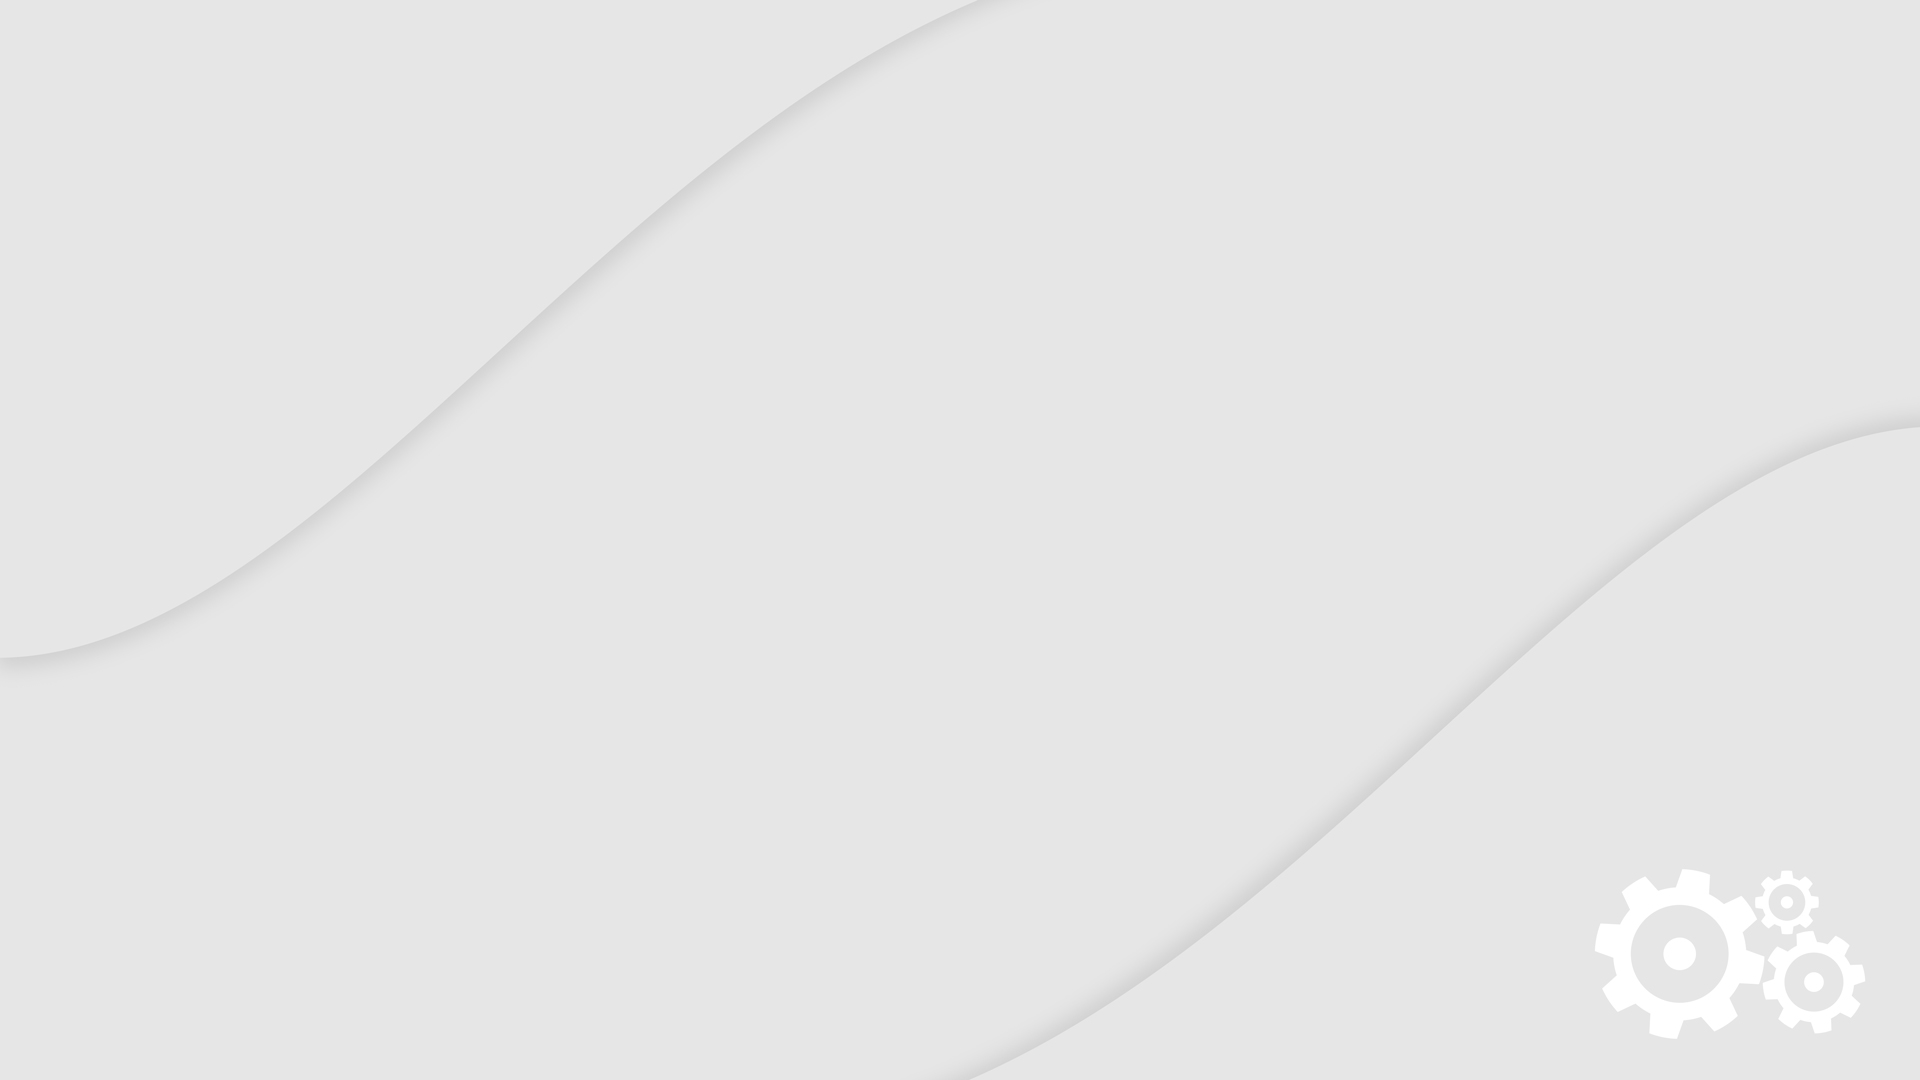
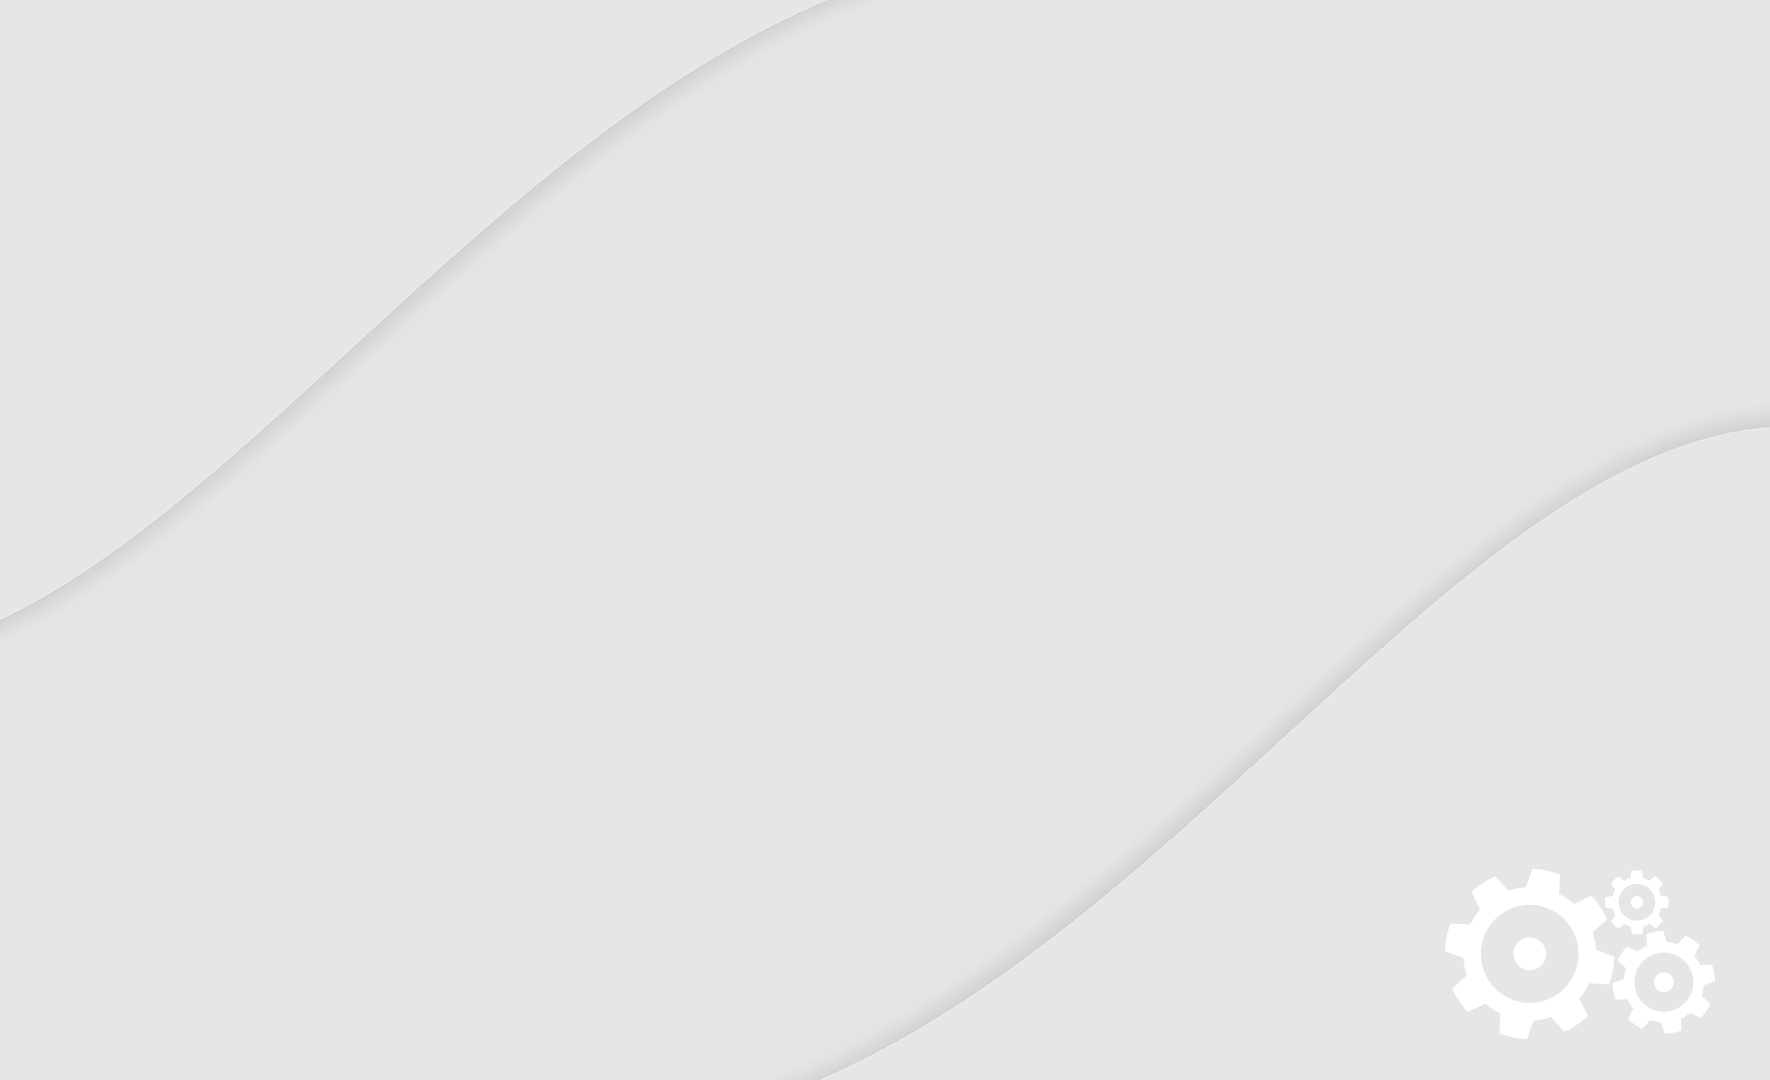
fixing size of control center image (1770) adding grey background with cogs

Changed region(s): [[0.8079, 0.7944, 0.9633, 0.9778]]

diff --git a/LineShaftKiosk/assets/css/screen.css b/LineShaftKiosk/assets/css/screen.css
@@ -1595,7 +1595,7 @@ perspective effects (not including the modals and the overlay).
   margin: 0 150px;
   
   background: #34363c;
-  background-image:url('../images/grey-with-cogs-faked.jpg');
+  background-image:url('../images/grey-with-cogs.jpg');
   background-size: 1920 1080;
   padding: 250px;
   overflow: hidden;
